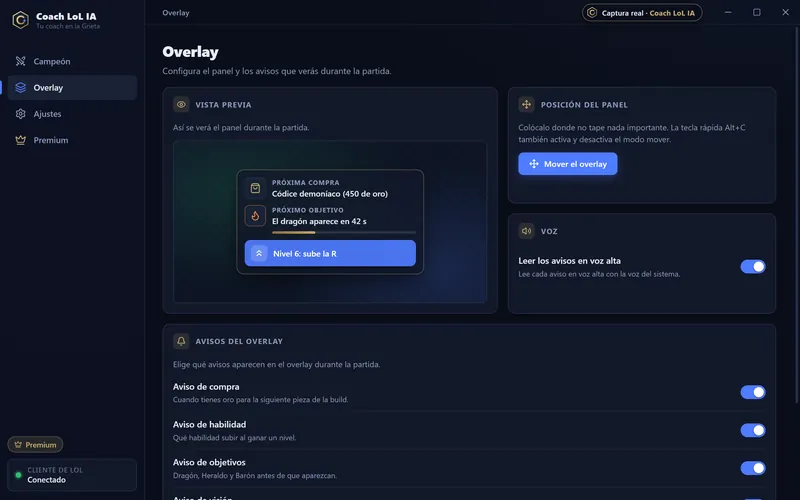
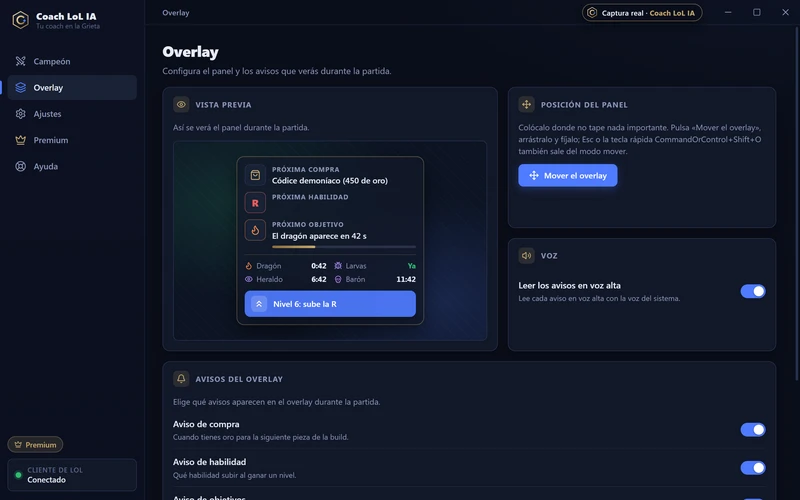
feat: capturas reales nuevas (overlay con objetivos y próxima habilidad, vista Ayuda)
- La herramienta de capturas calcula el panel del overlay con el motor real a partir de
  una partida coherente (minuto 9:22, un dragón ya muerto), en lugar de tiempos puestos a
  mano que eran imposibles juntos; añade la captura «ayuda» y genera también la variante
  de 800 px.
- web/public/capturas regenerado con datos reales del servidor (127.0.0.1:8099); la FAQ
  enseña la vista Ayuda y remite al asistente.

diff --git a/app/tools/capturas.ts b/app/tools/capturas.ts
@@ -18,8 +18,9 @@ import { dirname, join, resolve } from 'node:path';
 import { fileURLToPath } from 'node:url';
 import { ROLES, URL_VERSIONES, urlDatosDDragon, type Build, type Rol, type RolesCampeon } from '@coach/shared';
 import { AJUSTES_POR_DEFECTO } from '../src/main/ajustes';
+import { resumenPanel } from '../src/main/consejos/motor';
 import { t } from '../src/shared/i18n';
-import type { Ajustes, AvisoOverlay, EstadoLicencia, EstadoPrincipal, Panel, RecursosBuild } from '../src/shared/tiposApp';
+import type { Ajustes, AvisoOverlay, EstadoLicencia, EstadoPartida, EstadoPrincipal, Panel, RecursosBuild } from '../src/shared/tiposApp';
 
 const DIR_APP = resolve(dirname(fileURLToPath(import.meta.url)), '..');
 const SERVIDOR = (process.env.COACH_SERVIDOR ?? 'http://127.0.0.1:8080').replace(/\/$/, '');
@@ -136,6 +137,13 @@ const AJUSTES: Ajustes = {
   posicionOverlay: { x: 56, y: 150 },
 };
 
+/** Puntos de habilidad tras subir las `n` primeras del orden de la build. */
+function puntosHasta(orden: Build['ordenHabilidades'], n: number): EstadoPartida['habilidades'] {
+  const p = { Q: 0, W: 0, E: 0, R: 0 };
+  for (const h of orden.slice(0, n)) p[h]++;
+  return p;
+}
+
 async function main(): Promise<void> {
   const renderer = join(DIR_APP, 'out', 'renderer', 'principal', 'index.html');
   if (!existsSync(renderer)) fallar('No hay renderizador compilado. Ejecuta antes `npm run build -w app`.');
@@ -172,22 +180,28 @@ async function main(): Promise<void> {
   if (!c2) fallar(`Data Dragon no conoce al campeón «${segunda.build.campeon}».`);
   console.log(`[capturas] Ahri MIDDLE (parche ${ahri.parche}) y ${c2.nombre} ${segunda.rol}; Data Dragon ${d.version}.`);
 
-  // Panel y aviso del overlay con los mismos textos que genera el motor en partida.
+  // Panel del overlay calculado por el motor real con una partida coherente: minuto 9:22, nivel 6
+  // con 5 puntos (toca la R si la build lo dice) y un dragón ya muerto en el minuto 5:00.
+  // Así los tiempos de los objetivos son los que daría la app (dragón 10:00, larvas hasta 14:45,
+  // Heraldo 15:00, Barón 20:00), no números puestos a mano.
   const compraId = segunda.build.nucleo[1] ?? segunda.build.nucleo[0] ?? 0;
-  const panel: Panel = {
-    proximaCompra: t('panel.compra', { objeto: d.objetos[compraId] ?? String(compraId), oro: 425 }),
-    proximoObjetivo: t('aviso.objetivoPronto', { objetivo: t('objetivo.dragon'), segundos: 38 }),
-    proximaHabilidad: segunda.build.ordenHabilidades[5] ?? 'R',
-    objetivos: [
-      { id: 'dragon', nombre: t('objetivoCorto.dragon'), aparece: 38, disponible: false },
-      { id: 'larvas', nombre: t('objetivoCorto.larvas'), aparece: null, disponible: true },
-      { id: 'heraldo', nombre: t('objetivoCorto.heraldo'), aparece: 398, disponible: false },
-      { id: 'baron', nombre: t('objetivoCorto.baron'), aparece: 698, disponible: false },
-    ],
-    compraId,
-    version: d.version,
+  const partida: EstadoPartida = {
+    tiempo: 562,
+    oro: 2600,
+    nivel: 6,
+    campeon: segunda.build.campeon,
+    objetos: [],
+    habilidades: puntosHasta(segunda.build.ordenHabilidades, 5),
+    eventos: [{ nombre: 'DragonKill', tiempo: 300, dragon: 'Fire' }],
   };
-  const habilidad = segunda.build.ordenHabilidades[5] ?? 'R';
+  const calculado = resumenPanel(partida, segunda.build, {}, d.version);
+  const panel: Panel = {
+    ...calculado,
+    // Sin los datos completos de objetos de Data Dragon, la próxima compra se toma del núcleo real.
+    proximaCompra: t('panel.compra', { objeto: d.objetos[compraId] ?? String(compraId), oro: 425 }),
+    compraId,
+  };
+  const habilidad = calculado.proximaHabilidad ?? segunda.build.ordenHabilidades[5] ?? 'R';
   const aviso: AvisoOverlay = { texto: t('aviso.habilidad', { nivel: 6, habilidad }), voz: false, tipo: 'habilidad' };
 
   const estadoAhri = estadoPrincipal(ahri, 'MIDDLE', rolesAhri, d);
@@ -196,6 +210,7 @@ async function main(): Promise<void> {
     { nombre: 'campeon-premium', pagina: 'principal', vista: 'campeon', escena: { estado: estadoAhri, licencia: PREMIUM, ajustes: AJUSTES } },
     { nombre: 'premium', pagina: 'principal', vista: 'premium', escena: { estado: estadoAhri, licencia: GRATIS, ajustes: AJUSTES } },
     { nombre: 'overlay-ajustes', pagina: 'principal', vista: 'overlay', escena: { estado: estadoAhri, licencia: PREMIUM, ajustes: AJUSTES } },
+    { nombre: 'ayuda', pagina: 'principal', vista: 'ayuda', escena: { estado: estadoAhri, licencia: PREMIUM, ajustes: AJUSTES } },
     {
       nombre: 'overlay-partida',
       pagina: 'overlay',
